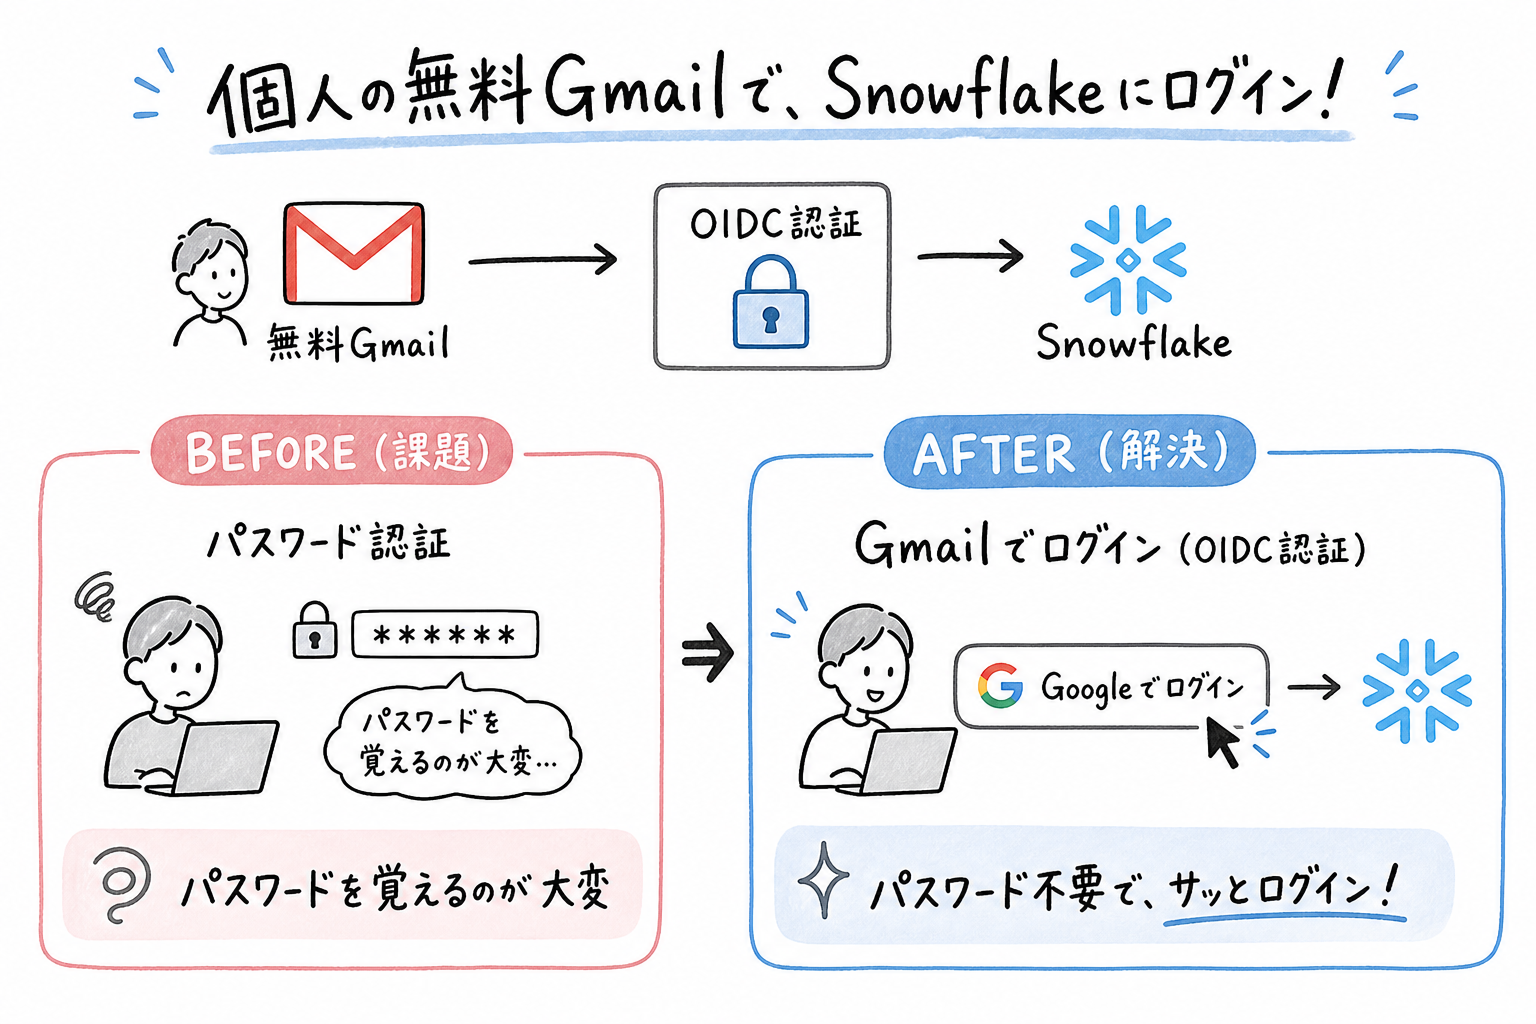
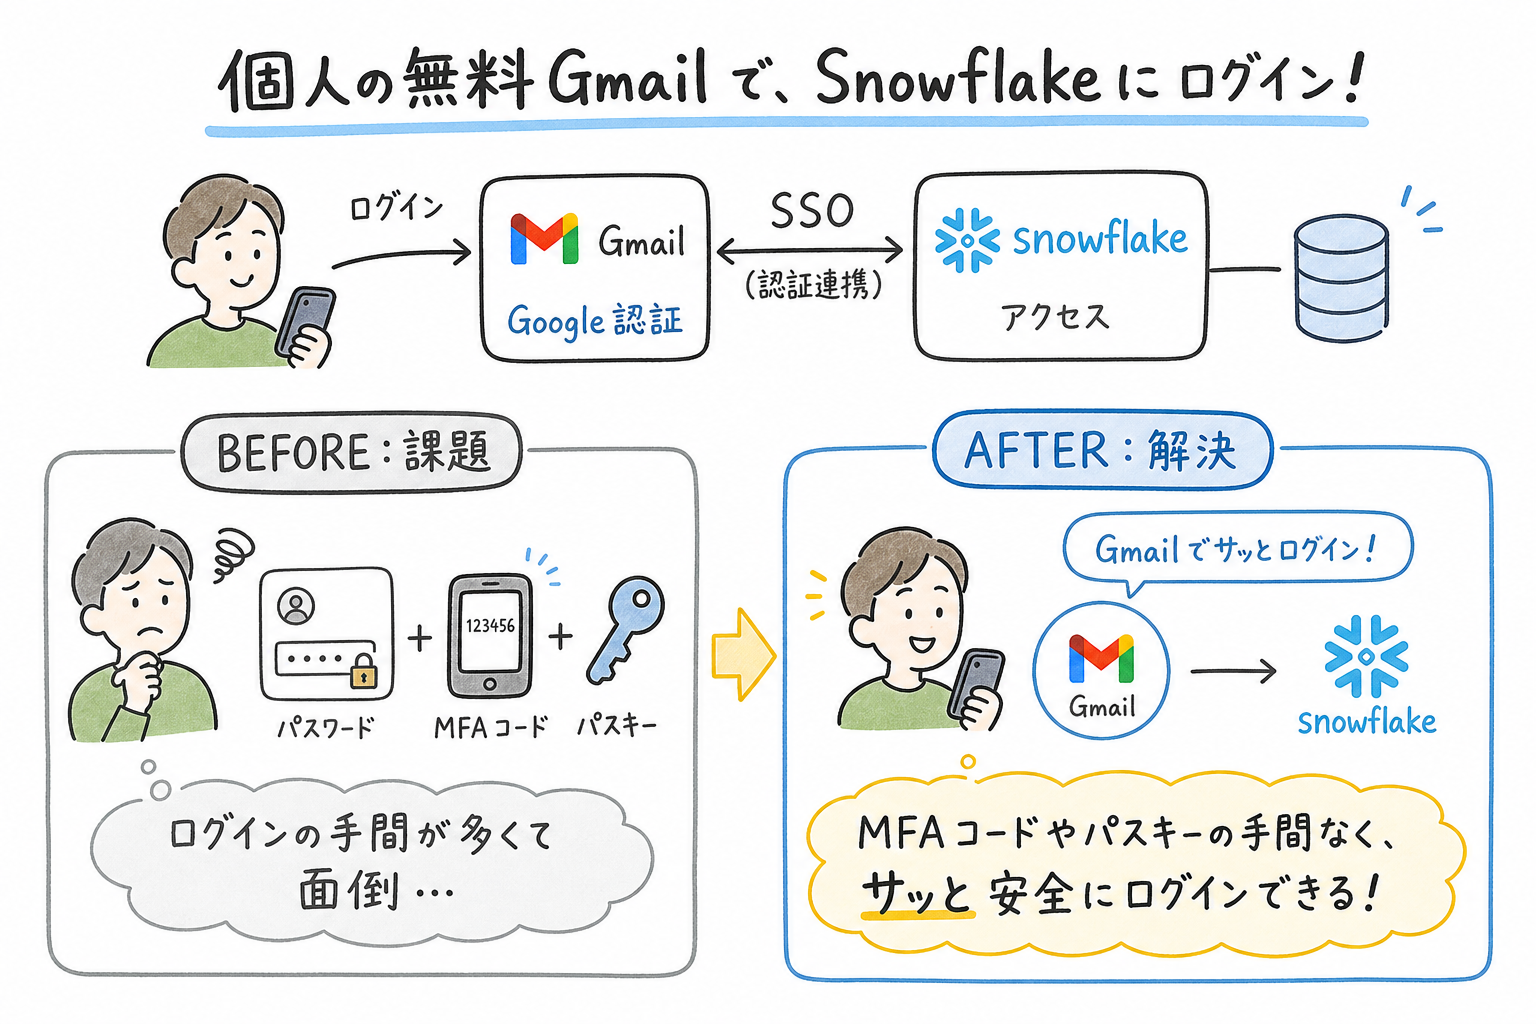
draft(i184): ストーリーをMFAの手間解消軸に変更・カバー画像再生成
- EC比較を削除し「MFA必須化→個人環境のログインの面倒さ→GmailをIdP代わりに」の構成へ
- IdP非保有組織でも使える節を追加
- カバー画像をBEFORE(パスワード+MFA+パスキー)/AFTER(Gmailでサッと)に再生成

Changed region(s): [[0.0, 0.0312, 1.0, 0.9688]]

diff --git a/articles/i184-google-oidc-personal-gmail.md b/articles/i184-google-oidc-personal-gmail.md
@@ -8,11 +8,17 @@ published: false
 
 ## この記事で分かること
 
-「ECサイトでよく見る『Googleでログイン』みたいに、自分がいつも使っている個人のGmailでSnowflakeにログインできるのか？」を実際に試した記録です。
+Snowflake は今、パスワードだけでなく **MFA（多要素認証）が必須**の方向に進んでいます。セキュリティ的には正しいのですが、個人検証環境だと地味に困ることがあります。
 
-結論から言うと、**個人の無料Gmailでログインできました**。Google Workspace（有料の組織アカウント）は不要です。
+毎回のログインで MFA コードを入力したり、パスキーは特定の PC に紐づいたりするため、**スマホや別の端末からサッとログインするのが面倒**なのです。
 
-ただし、ECサイトの「Googleでログイン」とは仕組みが根本的に違う点だけ注意が必要です。
+会社なら Entra ID のような IdP で SSO を組めますが、個人でそんなものは持っていません。
+
+そこで、**手持ちの Google アカウントを IdP 代わりにして、Gmail で Snowflake にログインできるか**を試しました。
+
+結論から言うと、**個人の無料 Gmail でログインできました**（Google Workspace は不要）。高いセキュリティを保ったまま、スマホからでも Gmail ログインだけでサッと入れるようになります。
+
+IdP を持たない小さな組織でも、同じやり方で Snowflake の SSO を導入できます。
 
 公式リリースノート: [July 20, 2026: OIDC federated authentication (Public Preview)](https://docs.snowflake.com/en/release-notes/2026/other/2026-07-17-oidc-federated-authentication-preview)
 
@@ -35,20 +41,23 @@ OIDCフェデレーテッド認証は Public Preview 機能です。内容は記
 
 「マネージド」とは、Google Cloud Console でOAuthクライアントを自分で作る必要がなく、**Snowflake 側が裏側の設定を持っていてくれる**という意味です。
 
-## ECサイトの「Googleでログイン」との決定的な違い
+## なぜ個人環境でこれが嬉しいのか
 
-ここが一番の注意点です。
+Snowflake はパスワードログイン時に MFA を求める方向に進んでいます。
 
-ECサイトの「Googleでログイン」は、**Gmailさえ持っていれば誰でも**その場でアカウントが作られてログインできます（セルフ登録）。
+会社の環境なら Entra ID や Okta のような IdP を使った SSO でこの手間を吸収できますが、個人検証環境ではそうはいきません。
 
-一方、Snowflake の OIDC は **組織向けSSO** なので、そうではありません。
+毎回 MFA コードを入力するか、パスキーを登録するしかありません。
 
-- **管理者が事前にSnowflakeに作ったユーザーしかログインできない**
-- Google認証のメールアドレスが、Snowflakeユーザーの `EMAIL_ADDRESS` 属性と一致する必要がある
+しかもパスキーは登録した端末に紐づくため、**別の PC やスマホからログインしようとすると詰まりがち**でした。
 
-つまり Google は「本人であることの証明」に使うだけで、**任意のGmailで勝手に入れるわけではありません**。
+ここで Google OIDC を使うと、認証そのものを Google に委ねられます。
 
-ボタンの見た目はECサイトと同じ「Sign in with Google」ですが、中身は「登録済みユーザーだけがGoogle経由で入れる」というものです。
+**SSO（外部認証）でのログインでは、Snowflake はデフォルトで独自の MFA を追加で求めません。** 認証は Google 側に委ねられ、Google アカウントの 2 段階認証などがそのまま効きます。
+
+つまり、Google 側でしっかりセキュリティをかけておけば、**Snowflake 側では Gmail ログイン 1 回でサッと入れる**ようになります。スマホのブラウザでも同じです。
+
+「高いセキュリティ（Google の認証）は保ったまま、Snowflake へのログイン体験だけ楽になる」というのが狙いです。
 
 ## やってみる
 
@@ -136,23 +145,30 @@ identifier-first login を有効にすると、ログイン画面がまず「ユ
 
 ドメイン制限なしでも、`EMAIL_ADDRESS` が一致するユーザーしか入れないため、本人限定は担保されています。
 
-## セキュリティ上の注意点
+## IdP を持たない組織でも使える
 
-「個人Gmailでログインできる」と聞くと緩く感じるかもしれませんが、実際は次のように守られています。
+この仕組みは個人だけでなく、**Entra ID や Okta のような IdP を持っていない小さな組織**にも応用できます。
 
-- **事前にユーザーを作り、`EMAIL_ADDRESS` を一致させた人しかログインできない**。任意のGmailでは入れない。
-- 統合を追加してもパスワードログインは無効化されない（併存する）。
-- 外部認証（OIDC SSO含む）後にMFAを必須化したい場合は、認証ポリシーで `MFA_POLICY = (ENFORCE_MFA_ON_EXTERNAL_AUTHENTICATION = 'ALL')` を設定できる。
+Snowflake 側に各メンバーのユーザーを作り、`EMAIL_ADDRESS` にそれぞれの Google アカウントを登録しておけば、メンバーは自分の Google アカウントで SSO ログインできます。
+
+Google アカウントの管理さえしっかりしていれば、専用の IdP を立てずに Snowflake の SSO を導入できるわけです。
+
+## セキュリティ面のメモ
+
+- 統合を追加してもパスワードログインは無効化されません（併存します）。使わないなら認証ポリシーで絞ることもできます。
+- 逆に、外部認証（OIDC SSO）後にも Snowflake 独自の MFA を必須化したい場合は、認証ポリシーで `MFA_POLICY = (ENFORCE_MFA_ON_EXTERNAL_AUTHENTICATION = 'ALL')` を設定できます。
+- Google アカウント側の 2 段階認証を有効にしておくことが、この構成のセキュリティの前提になります。
 
 ## まとめ
 
-個人の無料Gmailで、Snowflakeにログインできました。
+個人の無料 Gmail で、Snowflake にログインできました。
 
-- Google Workspace（有料）は不要。個人Gmailで動く。
-- ただしECサイトの「Googleでログイン」とは違い、`EMAIL_ADDRESS` が一致するSnowflakeユーザーを事前に用意しておく必要がある。
+- Google Workspace（有料）は不要。個人 Gmail で動く。
+- MFA コードやパスキーの手間なく、スマホからでも Gmail ログインだけでサッと入れる。認証は Google 側に委ねられる。
+- IdP を持たない組織でも、Gmail をユーザーに登録すれば同じように SSO を導入できる。
 - ドメイン制限（`ALLOWED_USER_DOMAINS`）を使いたい場合は identifier-first login の有効化が必要。
 
-個人検証アカウントでも、パスワードを覚えずにGmailでサッとログインできるようになるので、地味に便利です。
+高いセキュリティを保ったまま、個人検証環境のログインが一気に楽になります。
 
 ## 参考リンク
 
